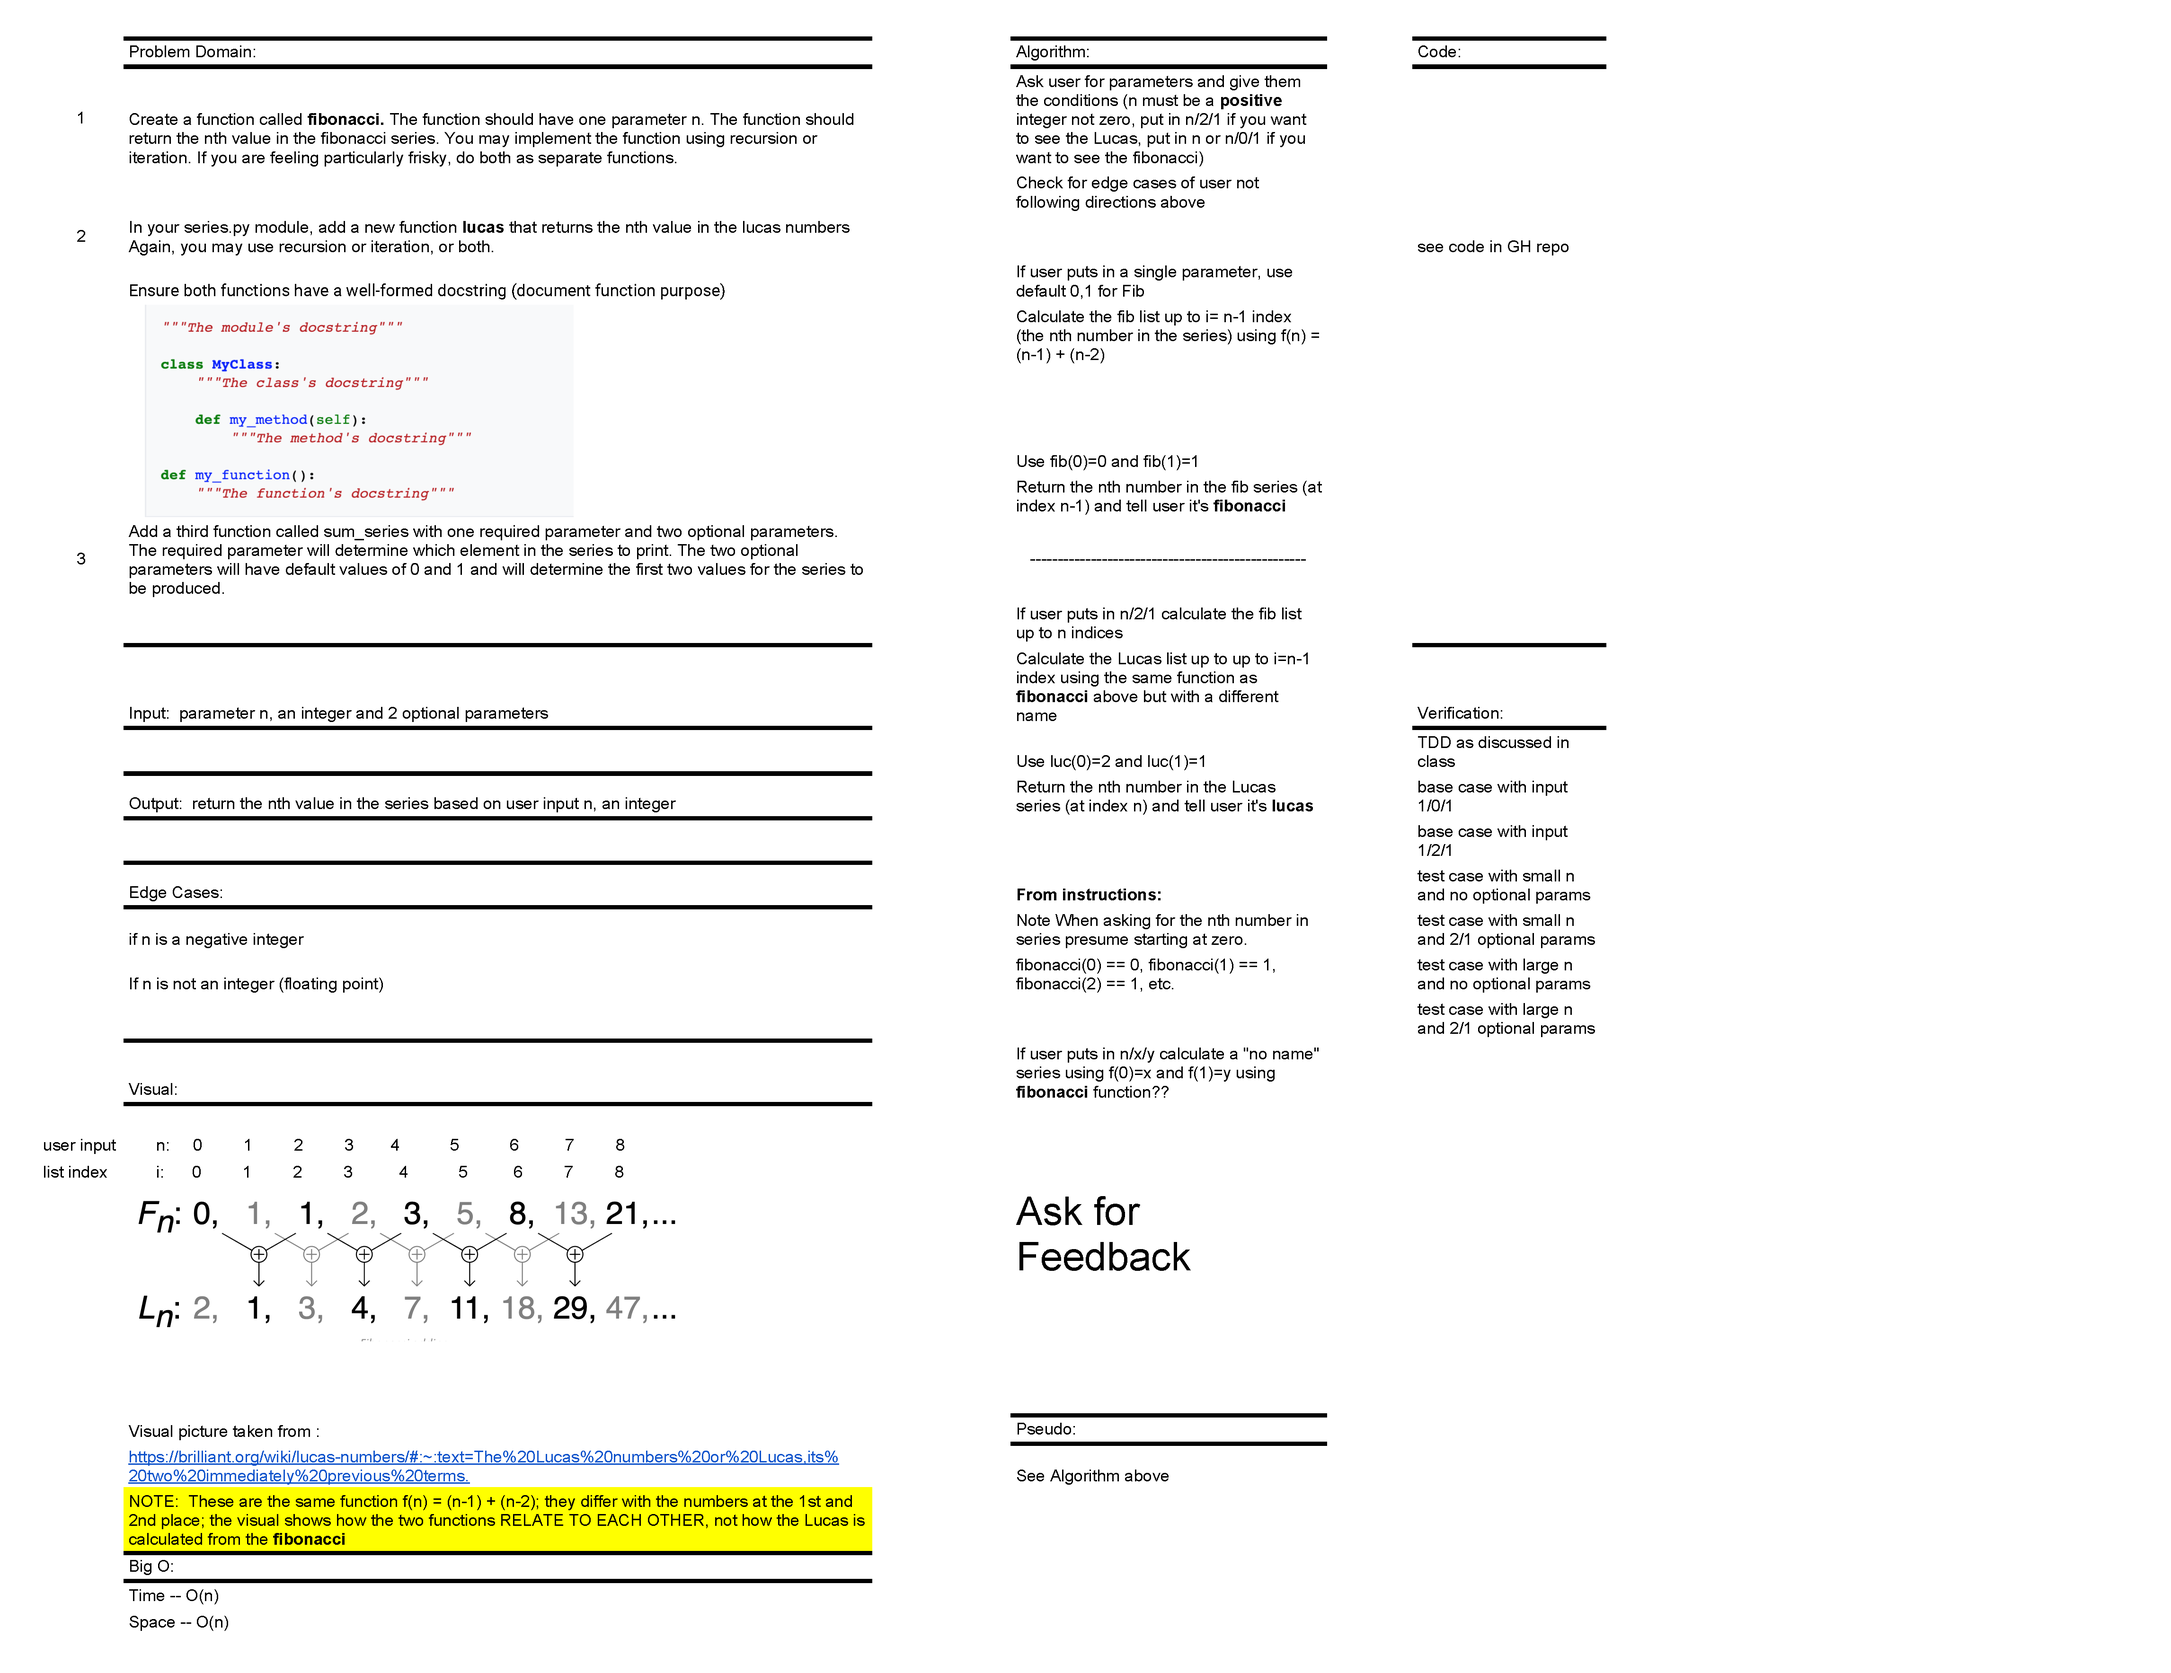
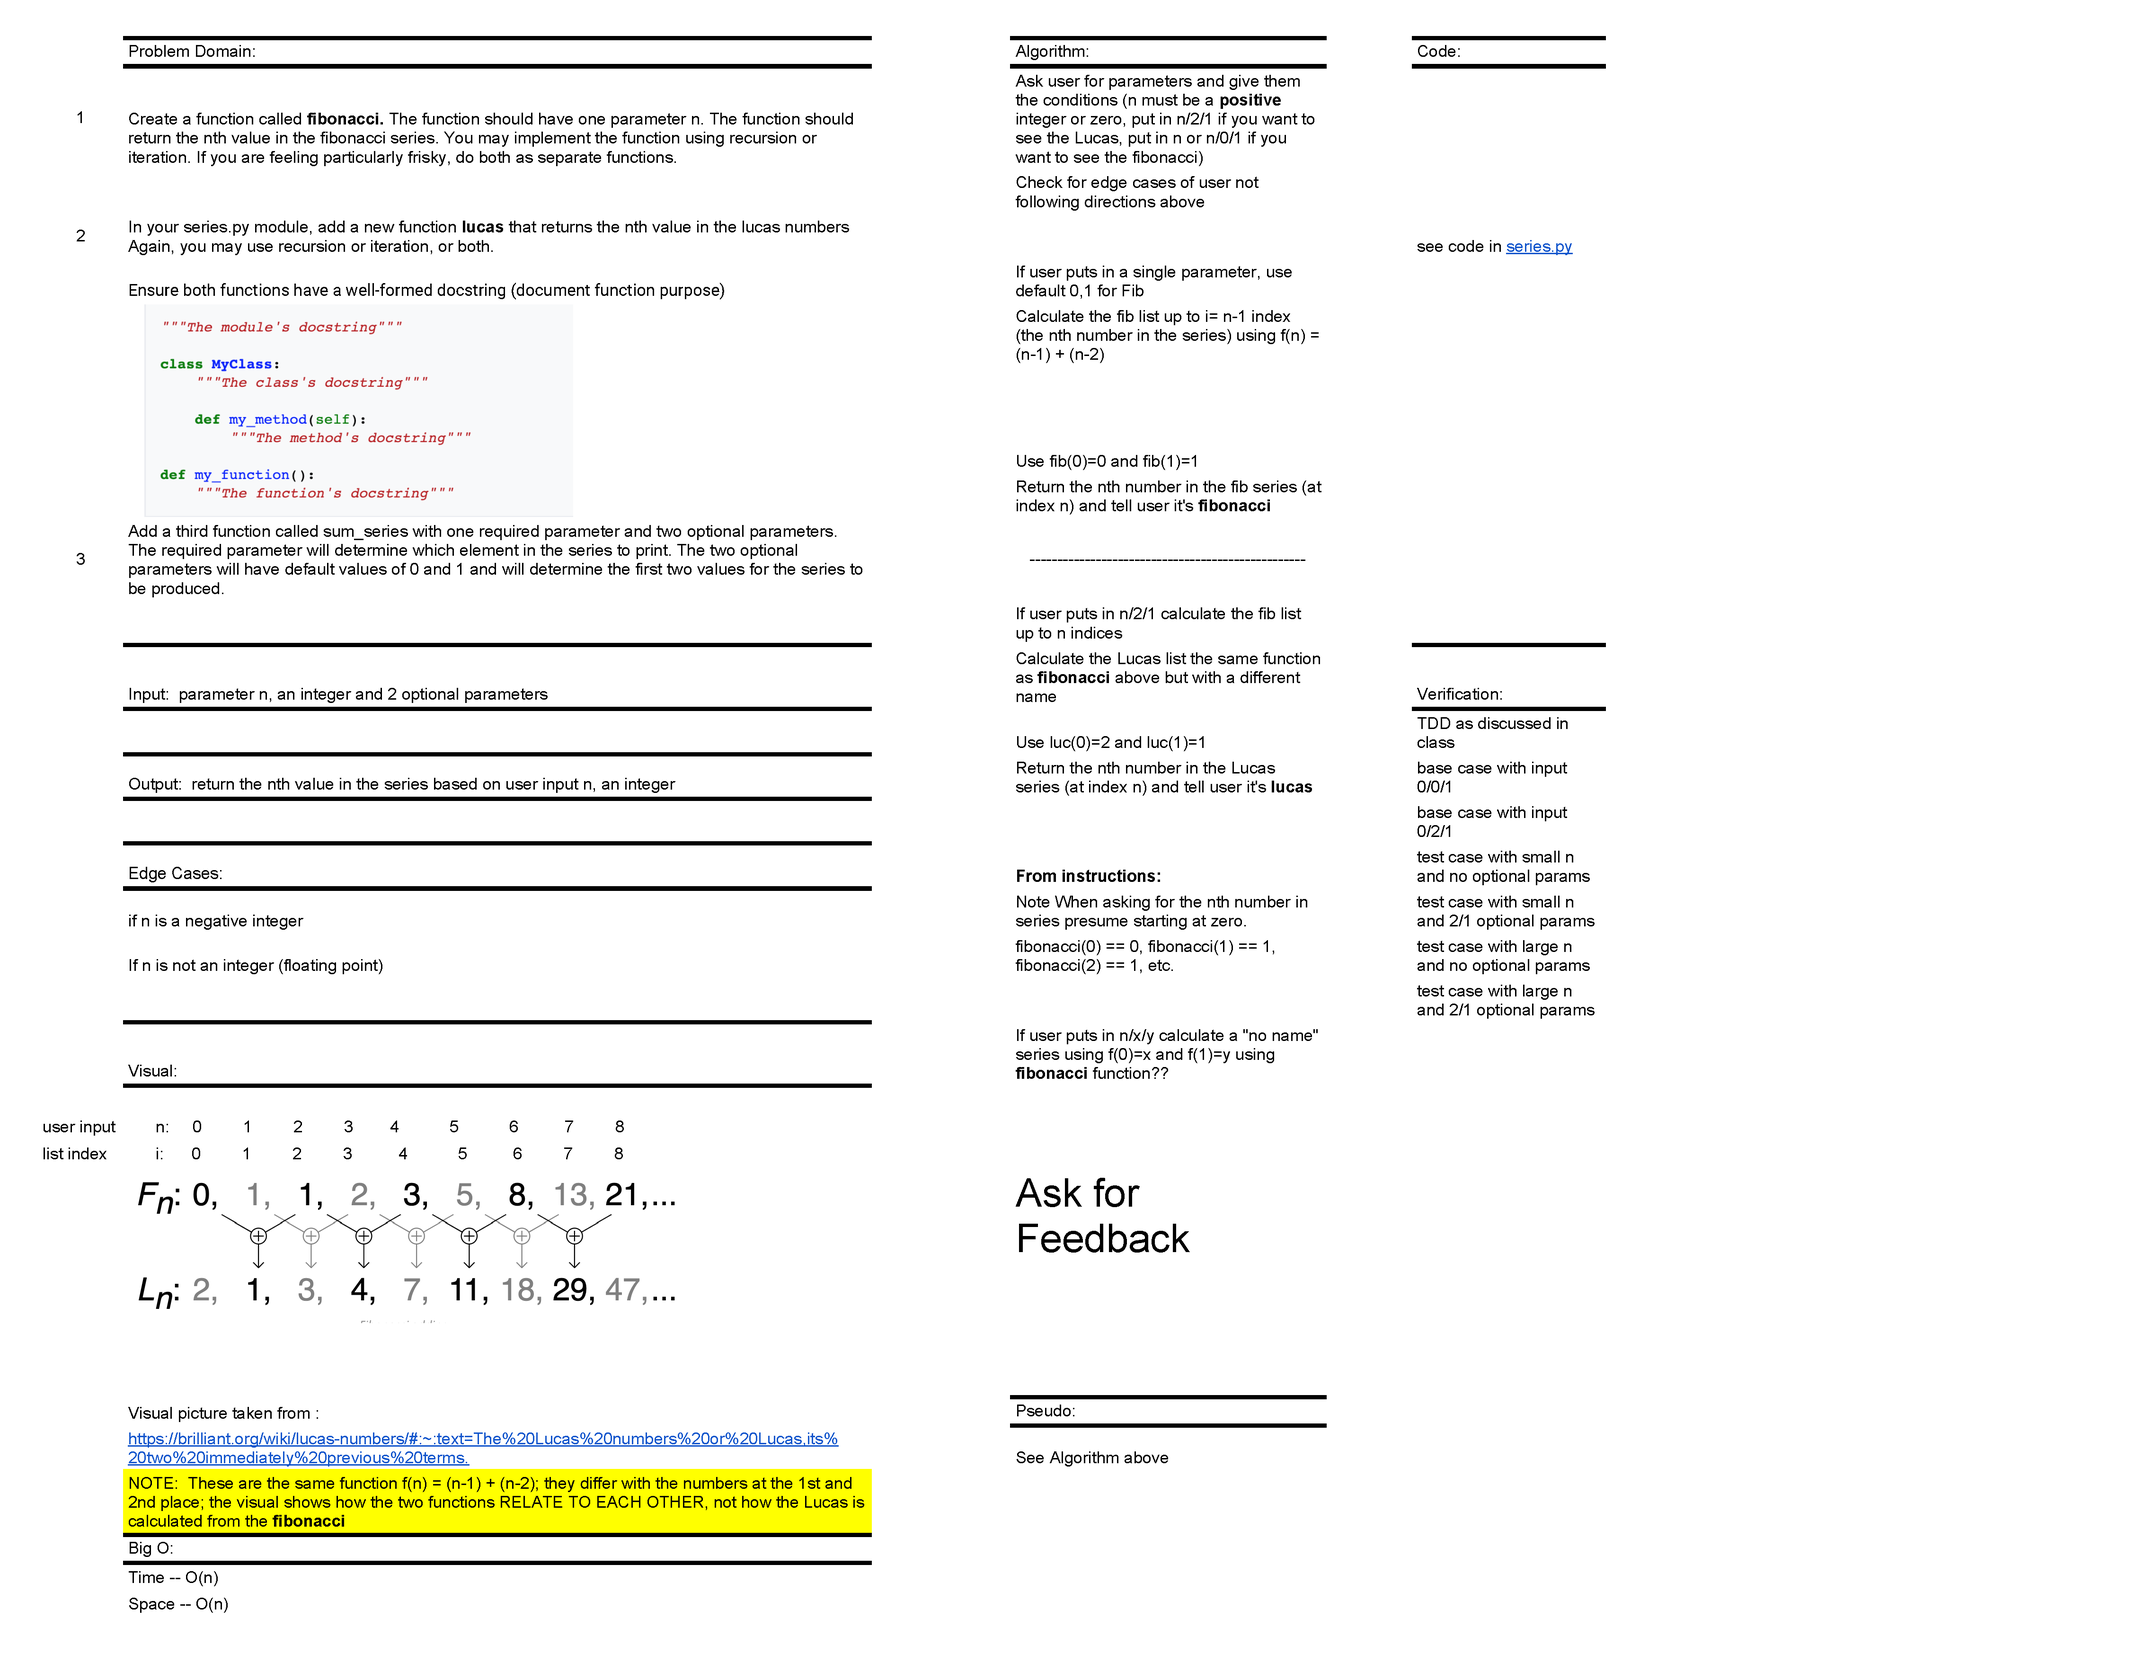
fib tests pass

diff --git a/math_series/series.py b/math_series/series.py
@@ -1,37 +1,120 @@
-# Ask user input
-"""User instructions/ask user for params (n,first_num,second_num);
-n is required and others optional"""
-
-def determine_n ()
 
 
-# Create fibonacci function
-"""Calculates a Fibonacci series to nth place if params are (n,0,1) or (n)"""
+# # Ask user input
+# """User instructions/ask user for params (n,first_num,second_num);
+# n is required and others optional"""
 
-def fibonacci (n,x,y)
-fib_series = []
+# def welcome():
+#     print("""\n** Welcome we will ask for 1 to 3 positive integers to generate
+#     the nth place in either a Fibonacci, Lucas, or random series **\n""")
 
-return fib_series
+# def determine_params ():
 
-# Create fibonacci function
-"""Calculates a Lucas series up to nth place if user params are (n,2,1)"""
+#     print (""" \n** Please enter a positive integer **
+#     to see the value of that place in the series **\n """)
+#     n = input('  > ')
 
-def lucas (n,x,y)
-lucas_series = []
+#     print ("""\n ** Do you wish to enter other parameters (yes/no)? 
+#     If no, a Fibonnacci series number will be generated. **\n""")
 
-return lucas_series
+#     more = input('  > ')
+
+
+#     if more.lower() == 'yes' or more.lower() == 'y':
+#         print ("""\n ** Please enter 0 to see the Fibonacci number or **
+#         2 to see the Lucas or any positive integer to see a random series **\n """)
+#         first_num = input('  > ')
+        
+#         print ("""\n ** Please enter 1 to see the Fibonacci or Lucas number or
+#         any positive integer to see a random series **\n """)
+#         second_num = input('  > ')
+#     else:
+#         first_num = 0
+#         second_num = 1  
+
+#     return n,first_num,second_num
+
+
+# # Create Fibonacci function
+# """Calculates a Fibonacci series to nth place if params are (n,0,1) or (n)"""
+
+def fibonacci(n):
+    x = 0
+    fib_series = [0,1]
+    if n == 0:
+        return 0
+    elif n == 1:
+        return 1
+    else:
+        for x in range(2,(n+1)):
+            fib_next = fib_series[x-1]+ fib_series[x-2]
+            fib_series.append(fib_next)
+
+
+    # print(f" {fib_series[n]} is at place {n} in the Fibonacci series")
+    return fib_series[n-1]
+
+
+# # Create Lucas function
+# """Calculates a Lucas series up to nth place if user params are (n,2,1)"""
+
+def lucas(n):
+    x = 0
+    luc_series = [2,1]
+    if n == 0:
+        return 2
+    elif n == 1:
+        return 1
+    else:
+        for x in range(2,(n+1)):
+            luc_next = luc_series[x-1]+ luc_series[x-2]
+            luc_series.append(luc_next)
+
+
+
+    # print(f" {luc_series[n]} is at place {n} in the Lucas series")
+    return luc_series[n-1]
 
 # Create random function
 """Calculates random series to nth place if params are (n,x,y) for any x,y"""
 
-def random_series (n,x,y)
-sum_series = []
+def sum_series (n,a=0,b=1):
+    x = 0
+    sum_series_list = [a,b]
+    if n == 0:
+        return a
+    elif n == 1:
+        return b
+    else:
+        for x in range(2,(n+1)):
+            sum_next = sum_series_list[x-1]+ sum_series_list[x-2]
+            sum_series_list.append(sum_next)
 
-return sum_series
 
-# function calls in main; use 'ifs' to call based on user input
-"""Main function calls others and produces output"""
+    # print(f"{sum_series_list[n]} is at place {n} in your series")
+    return sum_series(n)
 
+# # function calls in main; use 'ifs' to call based on user input
+# """Main function calls others and produces output"""
 
+# def main():
+#     # Global variables
+#     n = 0
+#     first_num = 0
+#     second_num = 0
 
-# call main function:
+#     welcome()
+#     determine_params()
+    
+#     print(n,first_num,second_num)
+
+#     if first_num == 0 and second_num == 1:
+#         fibonnaci(n,first_num,second_num)
+#     elif first_num == 2 and second_num == 1:
+#         lucas(n,first_num,second_num)
+#     else:
+#         sum_series(n,first_num,second_num)
+        
+# # # execution
+
+# main()

diff --git a/tests/test_math_series.py b/tests/test_math_series.py
@@ -1,4 +1,5 @@
 from math_series import __version__
+from math_series.series import *
 
 
 def test_version():
@@ -7,14 +8,45 @@ def test_version():
 
 """Using unit tests for Test Driven Development as discussed in class"""
 
-#base case with input 1/0/1
+#base case fib with input 0
+def test_zero():
+    actual = fibonacci(0)
+    expected = 0
+    assert actual == expected
 
-#base case with input 1/2/1
+#base case lucas with input 0
+def test_zero_lucas():
+    actual = lucas(0)
+    expected = 2
+    assert actual == expected
 
-#test case with small n and no optional params
+#test case fib with small n 
+def test_small_fib():
+    actual = fibonacci(2)
+    expected = 1
+    assert actual == expected
 
-#test case with small n and 2/1 optional params
+# #test case lucas with small n 
+# def test_small_lucas():
+#     actual = lucas(3)
+#     expected = 1
+#     assert actual == expected
 
-#test case with large n and no optional params
+#test case fib with large n 
+def test_lg_fib():
+    actual = fibonacci(25)
+    expected = 46368
+    assert actual == expected
 
-#test case with large n and 2/1 optional params
+
+# #test case lucas with large n 
+# def test_lg_lucas():
+#     actual = lucas(25)
+#     expected = 103682
+#     assert actual == expected
+    
+# #test sum_series with (n,a,b)
+# def test_random():
+#     actual = sum_series(1,1,2)
+#     expected = 2
+#     assert actual == expected

diff --git a/README.md b/README.md
@@ -66,4 +66,4 @@ Intial whiteboard session with Jae Choi
 
 [Python naming conventions](https://www.python.org/dev/peps/pep-0008/)
 
-
+[Poetry documentation](https://python-poetry.org/docs/)
